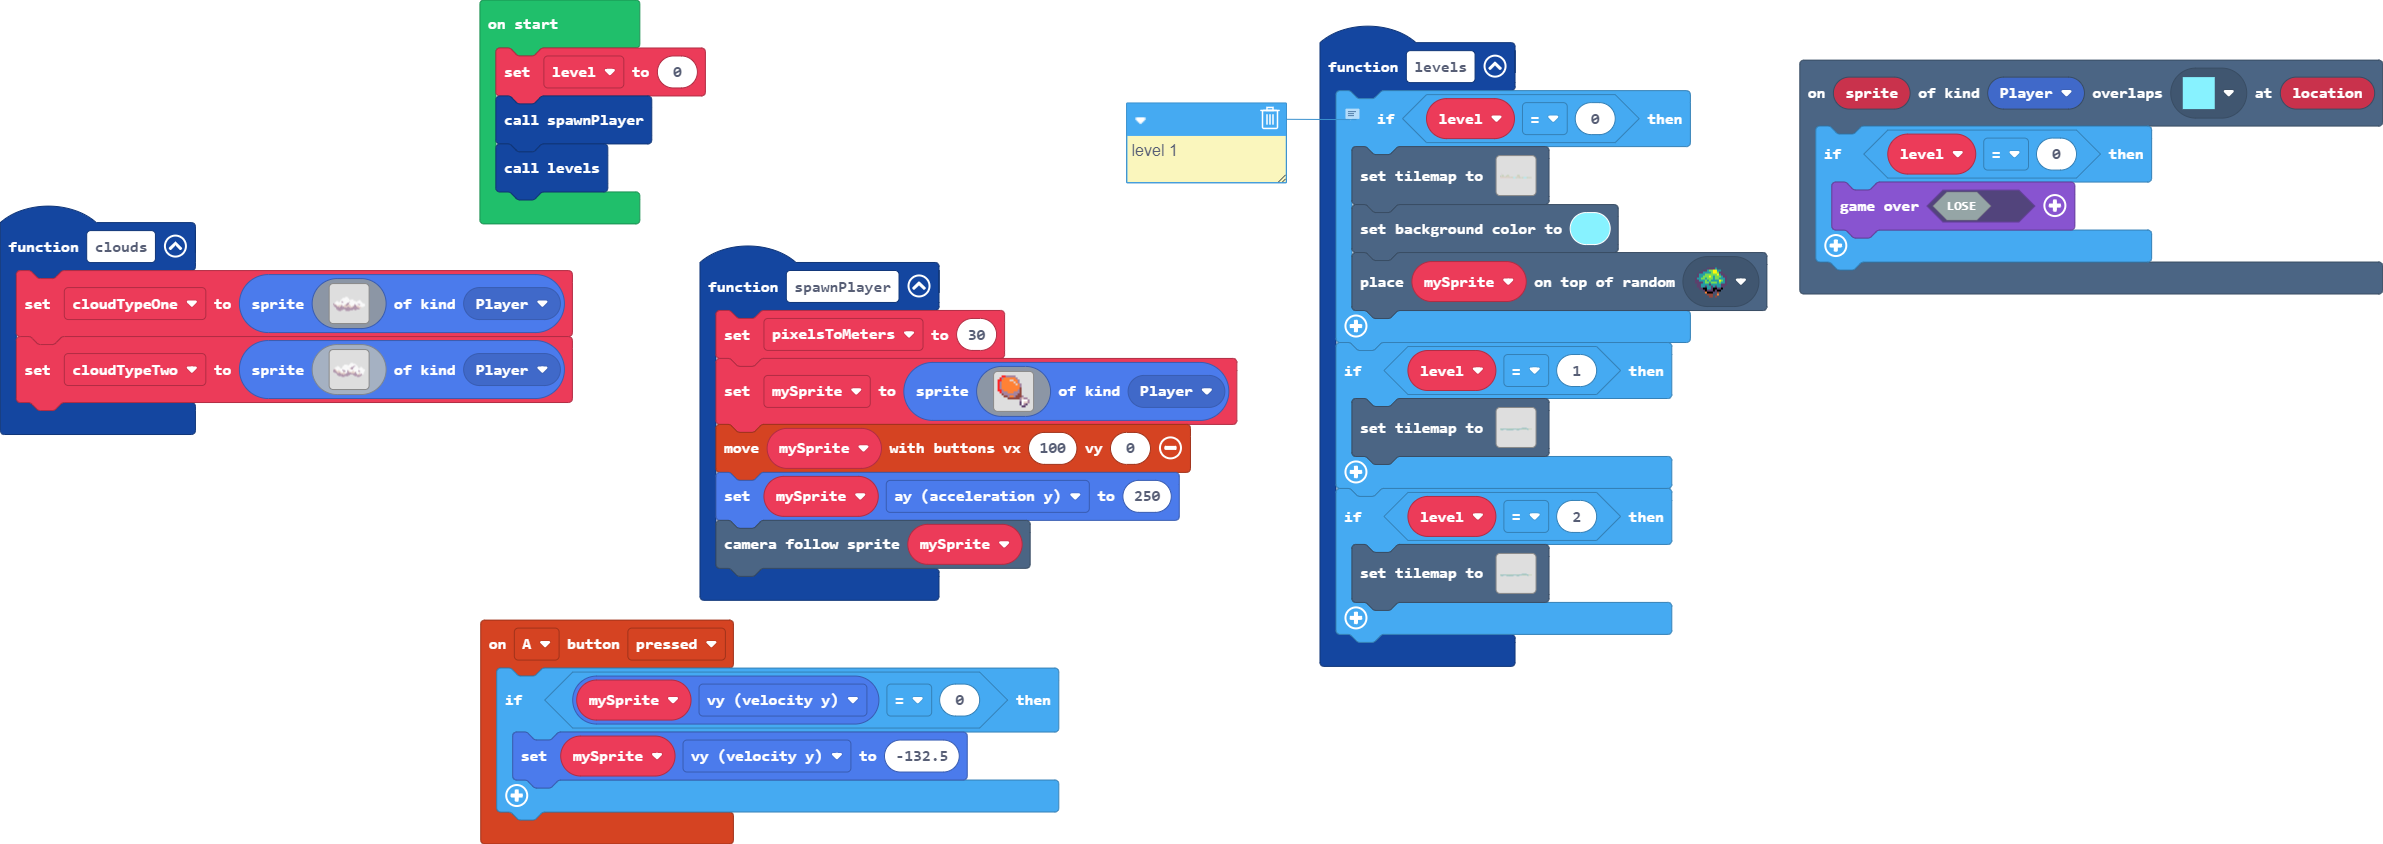
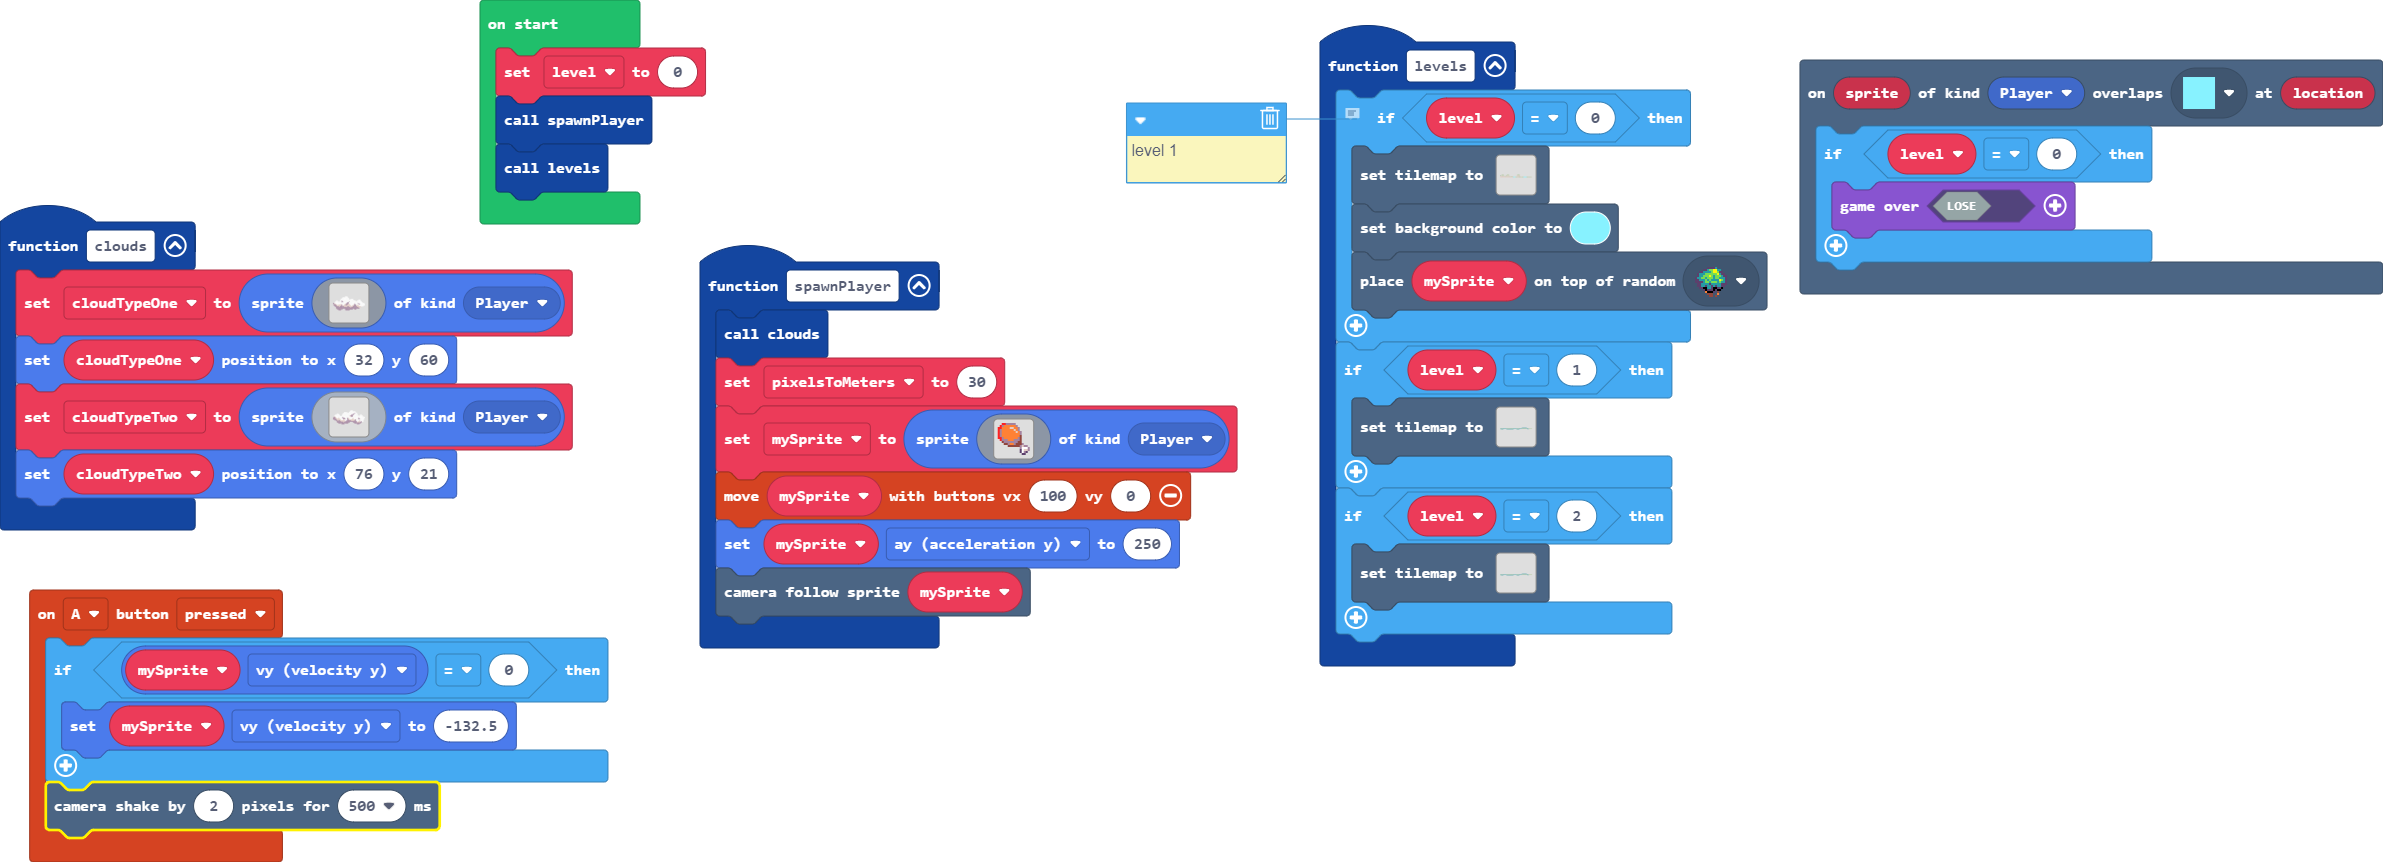
Update main.blocks, main.ts, tilemap.g.jres, tilemap.g.ts

diff --git a/tilemap.g.ts b/tilemap.g.ts
@@ -56,7 +56,7 @@ namespace myTiles {
 ............................................................
 `, [myTiles.transparency16,myTiles.tile1,myTiles.tile2,sprites.castle.tileDarkGrass2], TileScale.Sixteen);
             case "level1":
[2 lines of base64/hex data omitted]
 ............................................................
 ............................................................
 ............................................................
@@ -67,7 +67,7 @@ namespace myTiles {
 22222222....................................................
 222222222222222222222222....................................
 2222222222222222222222222....222222222222222......2222222222
-`, [myTiles.transparency16,sprites.castle.tilePath2,myTiles.tile1,sprites.castle.tilePath1,sprites.castle.tilePath3,sprites.castle.tilePath4,sprites.castle.tilePath5,sprites.castle.tilePath6,myTiles.tile2,myTiles.tile3,myTiles.tile4,myTiles.tile5,myTiles.tile6,myTiles.tile7,myTiles.tile8,sprites.castle.saplingOak,myTiles.tile9], TileScale.Sixteen);
+`, [myTiles.transparency16,sprites.castle.tilePath2,myTiles.tile1,sprites.castle.tilePath1,sprites.castle.tilePath3,sprites.castle.tilePath4,sprites.castle.tilePath5,sprites.castle.tilePath6,myTiles.tile2,myTiles.tile3,myTiles.tile6,myTiles.tile7,myTiles.tile8,sprites.castle.saplingOak,myTiles.tile9], TileScale.Sixteen);
         }
         return null;
     })

diff --git a/main.ts b/main.ts
@@ -2,6 +2,7 @@ controller.A.onEvent(ControllerButtonEvent.Pressed, function () {
     if (mySprite.vy == 0) {
         mySprite.vy = -132.5
     }
+    scene.cameraShake(2, 500)
 })
 scene.onOverlapTile(SpriteKind.Player, assets.tile`myTile7`, function (sprite, location) {
     if (level == 0) {
@@ -31,6 +32,7 @@ function clouds () {
         .......bbb......bbbbb...................
         ........................................
         `, SpriteKind.Player)
+    cloudTypeOne.setPosition(32, 60)
     cloudTypeTwo = sprites.create(img`
         ........................................
         ........................................
@@ -53,6 +55,7 @@ function clouds () {
         ...........bbb................bbb.......
         ........................................
         `, SpriteKind.Player)
+    cloudTypeTwo.setPosition(76, 21)
 }
 function levels () {
     // level 1
@@ -69,6 +72,7 @@ function levels () {
     }
 }
 function spawnPlayer () {
+    clouds()
     pixelsToMeters = 30
     mySprite = sprites.create(img`
         . . 2 2 b b b b b . . . . . . . 
